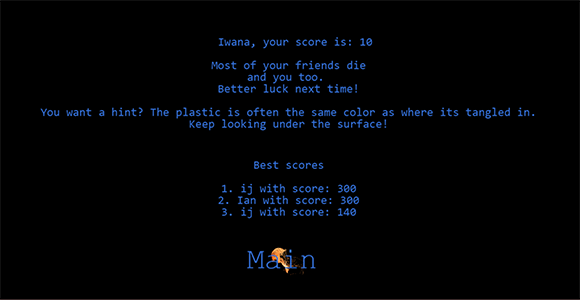
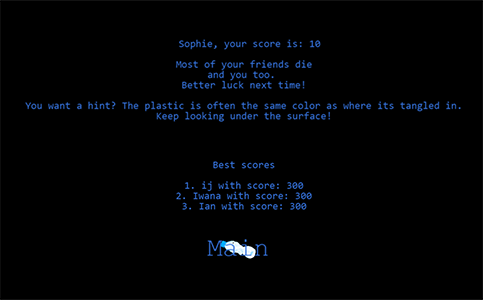
project fishgame now gallery included

diff --git a/src/App.js b/src/App.js
@@ -2,7 +2,7 @@ import { useEffect } from "react";
 import { AiOutlineHtml5 as Html5Icon } from "react-icons/ai";
 import {  DiReact as ReactIcon, DiSass as SassIcon } from "react-icons/di"; // DiCss3 as CssIcon,
 import { IoLogoJavascript as JavascriptIcon } from "react-icons/io";
-import { SiMongodb as MongodbIcon, SiFirebase as FirebaseIcon, } from "react-icons/si"; // SiRedux as ReduxIcon
+import { SiMongodb as MongodbIcon, SiFirebase as FirebaseIcon} from "react-icons/si"; // , SiRedux as ReduxIcon 
 // import { FaAws as AWSIcon } from "react-icons/fa";
 import { Router } from "./Router"
 import { Header, Footer, Backgrounds } from "./components/index"
@@ -10,7 +10,6 @@ import { Header, Footer, Backgrounds } from "./components/index"
 export function App() {
 
   const myProjects = [
-    
     {
       id : 8,
       title : "E-COMMERCE",
@@ -60,7 +59,19 @@ export function App() {
       toolsIcons : [<JavascriptIcon key="js"/>, <FirebaseIcon key="firebase"/>, <i key="node" className="fa-brands fa-node-js"></i>],
       deployedLink : "",
       githubLink : "https://github.com/iwanast/FishGame",
-      picture : "/fishgame.png"
+      picture : "/fishgame.png",
+      gallery : [
+        "/fishgame.png", 
+        "/fishgame_username.png", 
+        "/fishgame_helloSophieplay.png", 
+        "/fishgame_play.png", 
+        "/fishgame_play_youcandothis.png", 
+        "/fishgame_play_eat.png", 
+        "/fishgame_play_shark.png", 
+        "/fishgame2.png", 
+        "/fishgame_scorehigh_sophie.png", 
+        "/fishgame_won.png"
+      ]
     },
     {
       id : 3,
